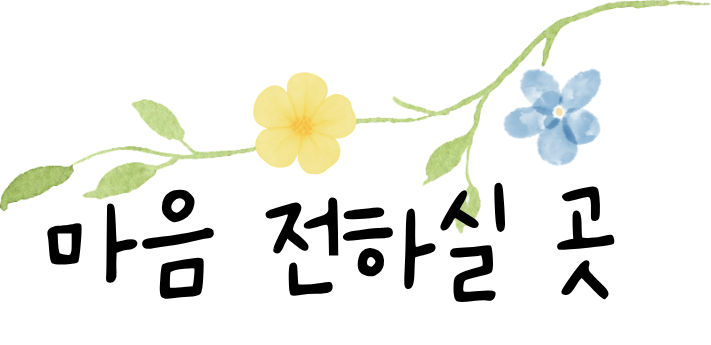
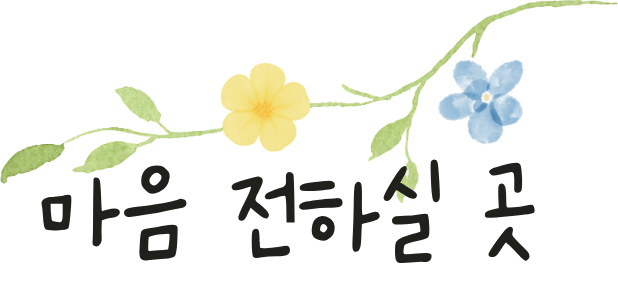
feat: css 작업

diff --git a/src/wedding.css b/src/wedding.css
@@ -6,10 +6,86 @@
 }
 
 .wedding-wrapper {
-  max-width: 1024px;
+  max-width: 960px;
   width: 100%;
 }
 
 .wedding-page img {
   width: 100%;
+}
+
+.wedding-top img {
+  max-width: max-content;
+  margin: 0 auto;
+  display: flex;
+  justify-content: center;
+}
+.wedding-top img:nth-child(2) {
+  padding-block: 5rem;
+  width: 80%;
+}
+.wedding-top img:nth-child(3) {
+  width: 80%;
+}
+.wedding-top img:nth-child(4) {
+  padding-block: 5rem;
+  width: 80%;
+}
+.wedding-top img:nth-child(5) {
+  display: flex;
+  justify-content: center;
+  margin: 0 auto;
+}
+.wedding-top img:nth-child(6) {
+  padding-bottom: 5rem;
+}
+
+.wedding-middle .gallery-label,
+.wedding-middle .location-label {
+  width: 50%;
+  display: flex;
+  justify-content: center;
+  margin: 0 auto;
+}
+.location-label {
+  padding-top: 5rem;
+}
+
+@media screen and (max-width: 786px) {
+  .wedding-top img {
+    max-width: max-content;
+    margin: 0 auto;
+    display: flex;
+    justify-content: center;
+  }
+  .wedding-top img:nth-child(2) {
+    padding-block: 3rem;
+    width: 80%;
+  }
+  .wedding-top img:nth-child(3) {
+    width: 100%;
+  }
+  .wedding-top img:nth-child(4) {
+    padding-block: 3rem;
+    width: 100%;
+  }
+  .wedding-top img:nth-child(5) {
+    display: flex;
+    justify-content: center;
+    margin: 0 auto;
+  }
+  .wedding-top img:nth-child(6) {
+    padding-bottom: 3rem;
+  }
+
+  .wedding-middle .gallery-label,
+  .wedding-middle .location-label {
+    width: 100%;
+    display: flex;
+    justify-content: center;
+    margin: 0 auto;
+  }
+  .location-label {
+    padding-top: 3rem;
+  }
 }

diff --git a/src/Wedding.tsx b/src/Wedding.tsx
@@ -3,6 +3,7 @@ import namePlace from "../public/name-place.png";
 import sentence from "../public/sentence.png";
 import child from "../public/child.png";
 import calendar from "../public/calendar.png";
+import calendarLabel from "../public/calendar-label.png";
 import galleryLabel from "../public/gallery-label.png";
 import LocationLabel from "../public/location-label.png";
 import "./wedding.css";
@@ -18,13 +19,22 @@ function Wedding() {
           <img src={namePlace} alt="wedding-name-place" />
           <img src={sentence} alt="wedding-sentence" />
           <img src={child} alt="wedding-child" />
+          <img src={calendarLabel} alt="wedding-calendar-label" />
           <img src={calendar} alt="wedding-calendar" />
         </section>
 
         <section className="wedding-middle">
-          <img src={galleryLabel} alt="wedding-gallery-label" />
+          <img
+            src={galleryLabel}
+            alt="wedding-gallery-label"
+            className="gallery-label"
+          />
           <Gallery />
-          <img src={LocationLabel} alt="wedding-location-label" />
+          <img
+            src={LocationLabel}
+            alt="wedding-location-label"
+            className="location-label"
+          />
           <KakaoMap />
         </section>
 

diff --git a/src/KakaoMap.tsx b/src/KakaoMap.tsx
@@ -4,7 +4,7 @@ function KakaoMap() {
   return (
     <Map
       center={{ lat: 35.878169, lng: 128.673931 }}
-      style={{ width: "1000px", height: "600px" }}
+      style={{ maxWidth: "1024px", width: "100%", height: "600px" }}
       level={3}
     >
       <MapMarker position={{ lat: 35.878169, lng: 128.673931 }}>
